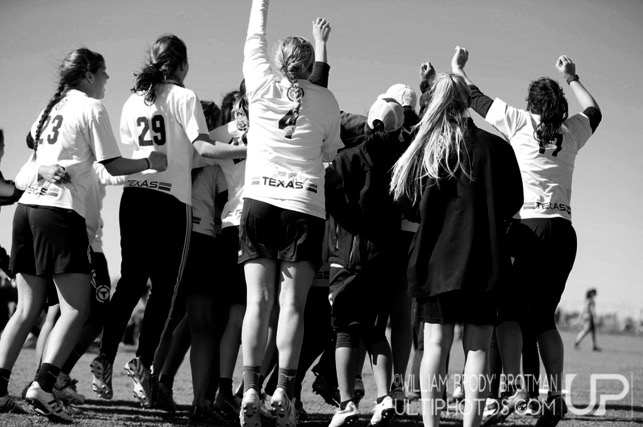
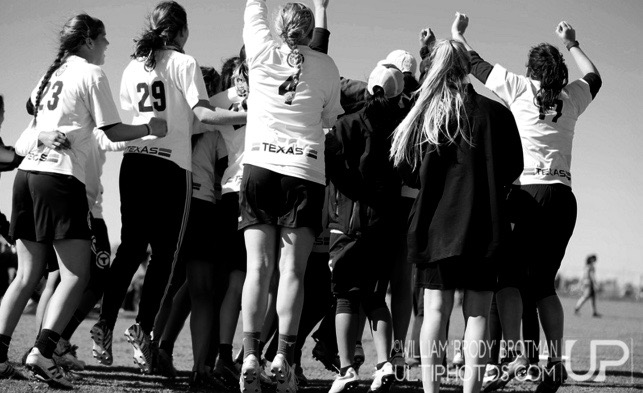
maybe this one

diff --git a/css/grayscale.css b/css/grayscale.css
@@ -480,7 +480,7 @@ a:focus {
     width: 100%;
     padding: 50px 0;
     color: #fff;
-    background: url(../img/melee) no-repeat center center scroll;
+    background: url(../img/melee4) no-repeat top center scroll;
     background-color: #000;
     -webkit-background-size: cover;
     -moz-background-size: cover;
